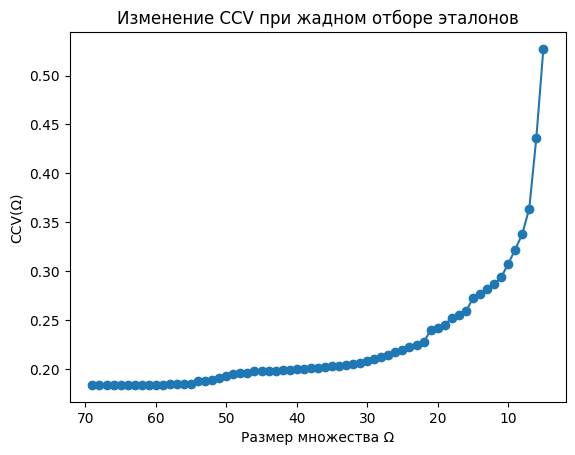
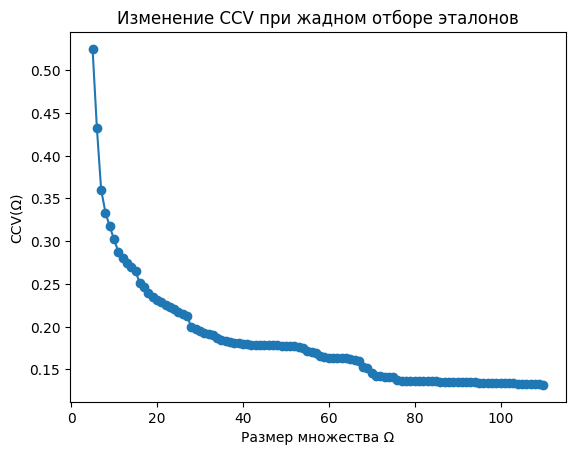
lab2 fixes

diff --git a/students/rudyk-yy/lab2/source/selector/selector.py b/students/rudyk-yy/lab2/source/selector/selector.py
@@ -3,12 +3,11 @@ from .compactness import Compactness
 import matplotlib.pyplot as plt
 
 class Selector:
-    def __init__(self, X, y, epsilon=1e-6, verbose=False, k=None):
+    def __init__(self, X, y, epsilon=1e-6, verbose=False):
         self.X = np.asarray(X)
         self.y = np.asarray(y)
         self.epsilon = epsilon
         self.verbose = verbose
-        self.k = k
         self.best_ccv = np.inf
         self.history = []
 
@@ -20,27 +19,26 @@ class Selector:
         print(self.X.shape)
         while improved and len(omega) > 1:
             improved = False
-            best_i = []
+            best_i = None
             best_ccv = self.best_ccv
             print(self.X.shape[1])
             for i in omega:
                 omega_new = [j for j in omega if j != i]
-                ccv_new = C.CCV(np.array(omega_new),k=self.k, l=self.X.shape[1])
+                ccv_new = C.CCV(np.array(omega_new),k=1, l=self.X.shape[1])
                 print(f"\rПробуем удалить {i}: CCV={ccv_new:.6f}", end="")
                 if ccv_new < best_ccv - self.epsilon:
                     best_ccv = ccv_new
-                    best_i.append(i)
+                    best_i = i
                 
             print(len(best_i))
-            if len(best_i) > 0:
+            if best_i is not None:
                 print(len(best_i))
-                for i in best_i:
-                    omega.remove(i)
-                    if self.verbose:
-                     print(f"Удалили {i}, осталось {len(omega)}, CCV={best_ccv:.6f}")
+                omega.remove(best_i)
                 self.best_ccv = best_ccv
                 improved = True
                 self.history.append((len(omega), best_ccv))
+                if self.verbose:
+                    print(f"\nУдалили {best_i}, CCV={best_ccv:.6f}, размер Ω={len(omega)}")
                 
 
         return np.array(omega)
@@ -66,7 +64,7 @@ class Selector:
                     continue
 
                 omega_new = Omega + [i]
-                ccv_new = C.CCV(np.array(omega_new), k=self.k, l=self.X.shape[1])
+                ccv_new = C.CCV(np.array(omega_new), k=1, l=self.X.shape[1])
 
 
                 if ccv_new < best_ccv - self.epsilon:
@@ -82,7 +80,7 @@ class Selector:
                     print(f"\nДобавили {best_i}, CCV={best_ccv:.6f}, размер Ω={len(Omega)}")
         return np.array(Omega)
 
-    def plot_history(self):
+    def plot_history(self, mode='add'):
         if not self.history:
             print("Нет истории — сначала вызови select()")
             return
@@ -91,5 +89,6 @@ class Selector:
         plt.xlabel("Размер множества Ω")
         plt.ylabel("CCV(Ω)")
         plt.title("Изменение CCV при жадном отборе эталонов")
-        plt.gca().invert_xaxis()
+        if mode == 'remove':
+            plt.gca().invert_xaxis()
         plt.show()

diff --git a/students/rudyk-yy/lab2/README.md b/students/rudyk-yy/lab2/README.md
@@ -135,7 +135,7 @@ Accuracy: 0.8968
 С отбором эталонов:
 
 ```
-Accuracy: 0.8492063492063492
+Accuracy: 0.8015873015873016
 ```
 
 Без отбора эталонов:
